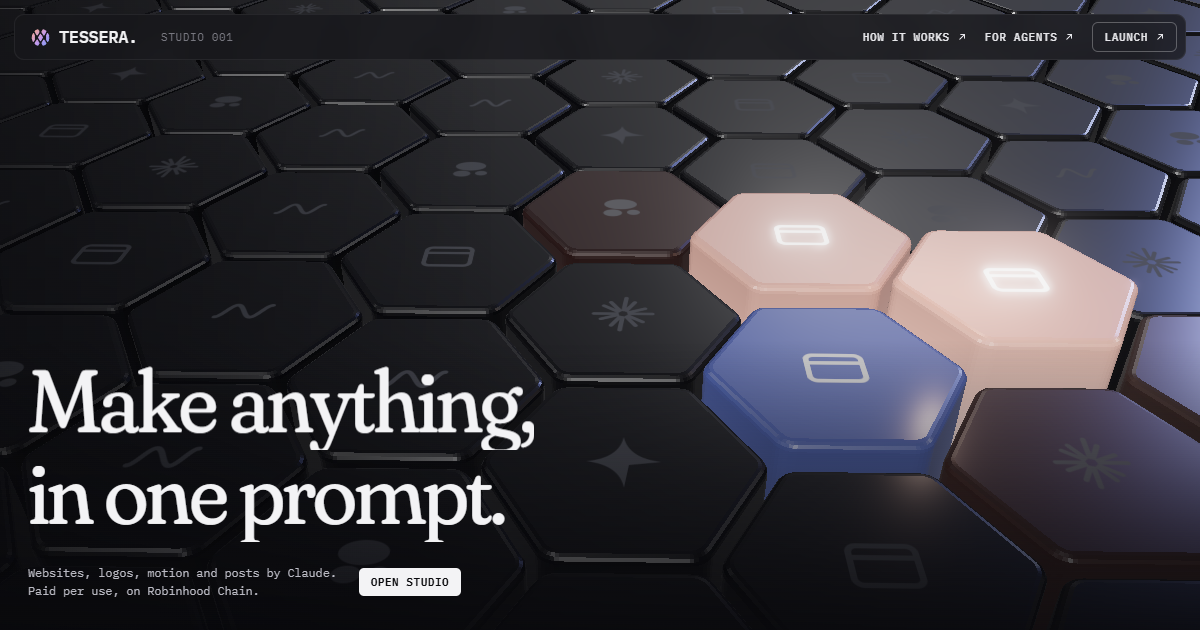
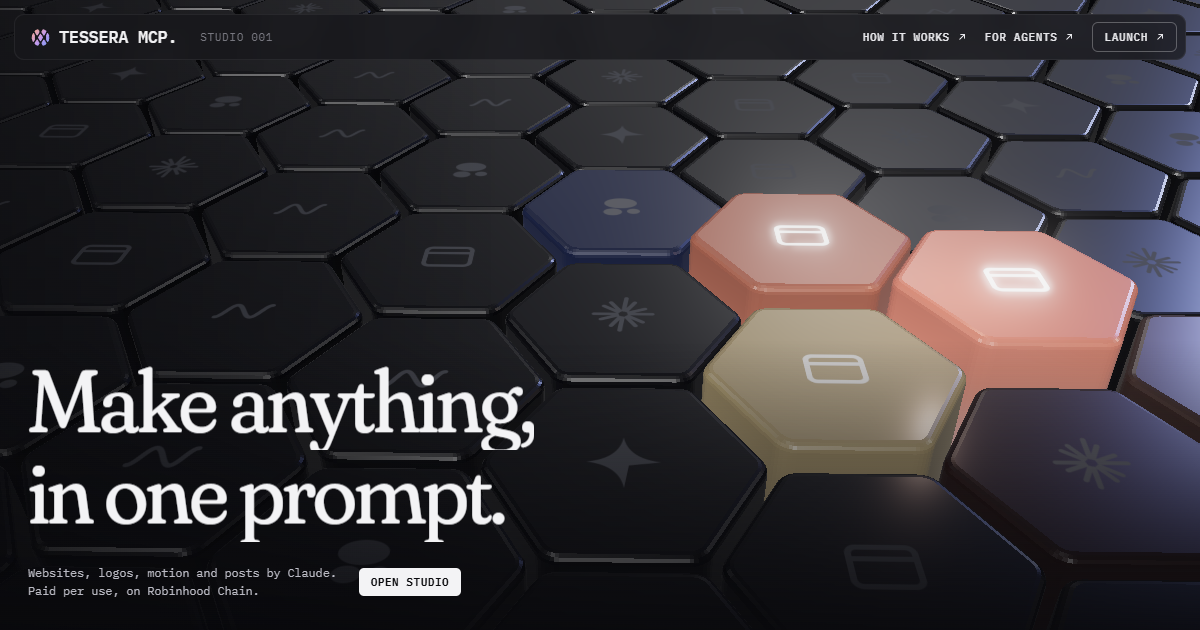
Brand as Tessera MCP

diff --git a/web/index.html b/web/index.html
@@ -3,34 +3,34 @@
 <head>
 <meta charset="utf-8">
 <meta name="viewport" content="width=device-width, initial-scale=1">
-<title>Tessera · Make anything, in one prompt</title>
+<title>Tessera MCP · Make anything, in one prompt</title>
 <meta name="description" content="Websites, logos, motion and X posts made by Claude. Pay per use with ETH credits on Robinhood Chain. Agents can use it over MCP.">
 <link rel="canonical" href="__SITE__/">
 <meta property="og:type" content="website">
-<meta property="og:site_name" content="Tessera">
-<meta property="og:title" content="Tessera · Make anything, in one prompt">
+<meta property="og:site_name" content="Tessera MCP">
+<meta property="og:title" content="Tessera MCP · Make anything, in one prompt">
 <meta property="og:description" content="Websites, logos, motion and X posts made by Claude. Pay only for the tokens it used, in ETH on Robinhood Chain.">
 <meta property="og:url" content="__SITE__/">
 <meta property="og:image" content="__SITE__/og.png">
 <meta property="og:image:width" content="1200">
 <meta property="og:image:height" content="630">
 <meta name="twitter:card" content="summary_large_image">
-<meta name="twitter:title" content="Tessera · Make anything, in one prompt">
+<meta name="twitter:title" content="Tessera MCP · Make anything, in one prompt">
 <meta name="twitter:description" content="Websites, logos, motion and X posts made by Claude. Pay per use in ETH on Robinhood Chain.">
 <meta name="twitter:image" content="__SITE__/og.png">
 <link rel="apple-touch-icon" href="icon-180.png">
-<link rel="icon" href="mark.svg?v=14" type="image/svg+xml">
+<link rel="icon" href="mark.svg?v=15" type="image/svg+xml">
 <meta name="theme-color" content="#0b0b0e">
 <link rel="preconnect" href="https://fonts.googleapis.com">
 <link rel="preconnect" href="https://fonts.gstatic.com" crossorigin>
 <link href="https://fonts.googleapis.com/css2?family=Fraunces:opsz,wght,SOFT,WONK@9..144,300..700,0..100,0..1&family=IBM+Plex+Mono:wght@400;500;600&display=swap" rel="stylesheet">
 <link rel="stylesheet" href="vendor/lenis.css">
-<link rel="stylesheet" href="app.css?v=14">
-<link rel="stylesheet" href="home.css?v=14">
+<link rel="stylesheet" href="app.css?v=15">
+<link rel="stylesheet" href="home.css?v=15">
 </head>
 <body>
 <header class="top">
-  <a class="brand" href="#/"><img src="mark.svg?v=14" alt=""><span id="brandName">Tessera</span></a>
+  <a class="brand" href="#/"><img src="mark.svg?v=15" alt=""><span id="brandName">Tessera MCP</span></a>
   <nav class="nav" id="nav">
     <a href="#/studio" data-r="studio">Studio</a><a href="#/gallery" data-r="gallery">Gallery</a><a href="#/account" data-r="account">Credits</a><a href="#/agents" data-r="agents">Agents</a><a href="#/docs" data-r="docs">How it works</a>
   </nav>
@@ -42,12 +42,12 @@
 <div class="mockbar" id="mockbar" hidden>Preview mode: no Claude key on this server, so every result is a sample and costs nothing real.</div>
 
 <main id="view"></main>
-<footer class="app-foot" id="appFoot" hidden><span>Tessera · made by Claude, paid on Robinhood Chain</span><nav><a href="#/docs">How it works</a><a href="#/terms">Terms</a><a href="#/privacy">Privacy</a><a href="https://github.com/brakeline-devv/tessera" target="_blank" rel="noopener">GitHub</a></nav></footer>
+<footer class="app-foot" id="appFoot" hidden><span>Tessera MCP · made by Claude, paid on Robinhood Chain</span><nav><a href="#/docs">How it works</a><a href="#/terms">Terms</a><a href="#/privacy">Privacy</a><a href="https://github.com/brakeline-devv/tessera" target="_blank" rel="noopener">GitHub</a></nav></footer>
 
 <div class="toast" id="toast" role="status" aria-live="polite"></div>
 <script src="vendor/gsap.min.js"></script>
 <script src="vendor/ScrollTrigger.min.js"></script>
 <script src="vendor/lenis.min.js"></script>
-<script src="app.js?v=14" type="module"></script>
+<script src="app.js?v=15" type="module"></script>
 </body>
 </html>

diff --git a/web/home.js b/web/home.js
@@ -1,6 +1,6 @@
 // Tessera landing, modelled on the reference: a full-screen 3D hex field hero (three.js, hexfield.js) with a thin top bar,
 // a big grotesk headline bottom-left, a small mono line and a white button. Below: manifesto, modes, pay, agents, close.
-import { createHexField } from "./hexfield.js?v=14";
+import { createHexField } from "./hexfield.js?v=15";
 
 const esc = (s) => String(s ?? "").replace(/[&<>"']/g, (c) => ({ "&": "&amp;", "<": "&lt;", ">": "&gt;", '"': "&quot;", "'": "&#39;" }[c]));
 const lines = (t) => t.split("|").map((l) => `<span class="ln"><span>${l}</span></span>`).join("");
@@ -41,7 +41,7 @@ export function home(S) {
   <section class="x-hero" id="xHero">
     <canvas class="x-field" id="xField"></canvas>
     <header class="x-bar">
-      <a class="x-brand" href="#/"><img src="mark.svg?v=14" alt=""><b>${B.toUpperCase()}.</b><span>STUDIO 001</span></a>
+      <a class="x-brand" href="#/"><img src="mark.svg?v=15" alt=""><b>${B.toUpperCase()}.</b><span>STUDIO 001</span></a>
       <nav class="x-right"><a href="#/docs" class="x-link">HOW IT WORKS ${NE}</a><a href="#/agents" class="x-link">FOR AGENTS ${NE}</a><a href="#/studio" class="x-btn">LAUNCH ${NE}</a></nav>
     </header>
     <div class="x-copy">
@@ -146,7 +146,7 @@ function runDemo() {
   const fmt = (n, d = 2) => Number(n).toFixed(d);
   let meta = null, mode = "website", p = 0, codeCache = {}, outFor = "", dead = false;
   const H = (s) => s.replace(/[&<>]/g, (c) => ({ "&": "&amp;", "<": "&lt;", ">": "&gt;" }[c]));
-  fetch("showcase/meta.json?v=14").then((r) => r.json()).then((m) => { if (dead) return; meta = m; prep(); paint(); }).catch(() => {});
+  fetch("showcase/meta.json?v=15").then((r) => r.json()).then((m) => { if (dead) return; meta = m; prep(); paint(); }).catch(() => {});
 
   async function prep() {
     const get = (u) => fetch(u).then((r) => r.text()).catch(() => "");

diff --git a/web/app.js b/web/app.js
@@ -57,7 +57,7 @@ async function ensureChain() {
 }
 
 /* ---------------- router ---------------- */
-import { home as homeView, homeCleanup } from "./home.js?v=14";
+import { home as homeView, homeCleanup } from "./home.js?v=15";
 const home = () => homeView(S);
 const VIEWS = { home, studio, gallery, account, agents, docs, terms, privacy };
 function route() {

diff --git a/src/config.js b/src/config.js
@@ -16,7 +16,7 @@ const num = (v, d) => (v === undefined || v === "" ? d : Number(v));
 
 export const CONFIG = {
   root: ROOT,
-  brand: E.KILN_BRAND || "Tessera",
+  brand: E.KILN_BRAND || "Tessera MCP",
   port: num(E.PORT, 6700),
   host: E.HOST || "127.0.0.1",
   publicUrl: E.PUBLIC_URL || "http://127.0.0.1:6700",
